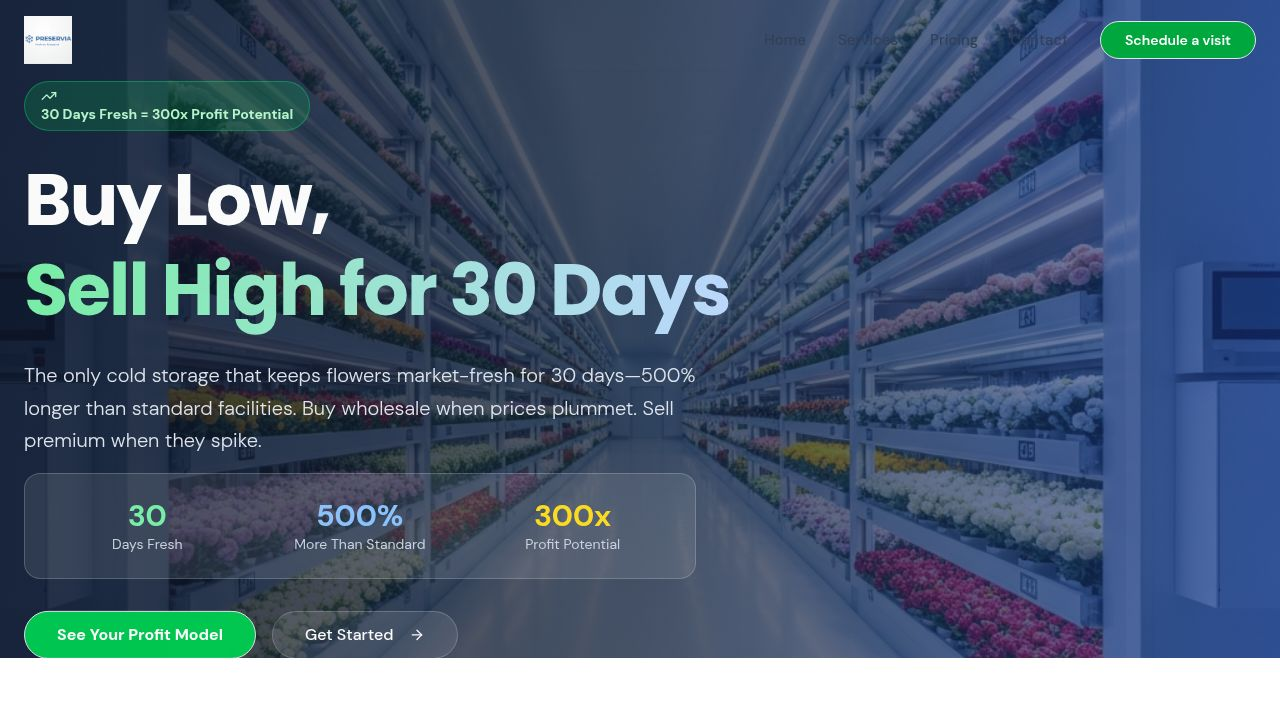
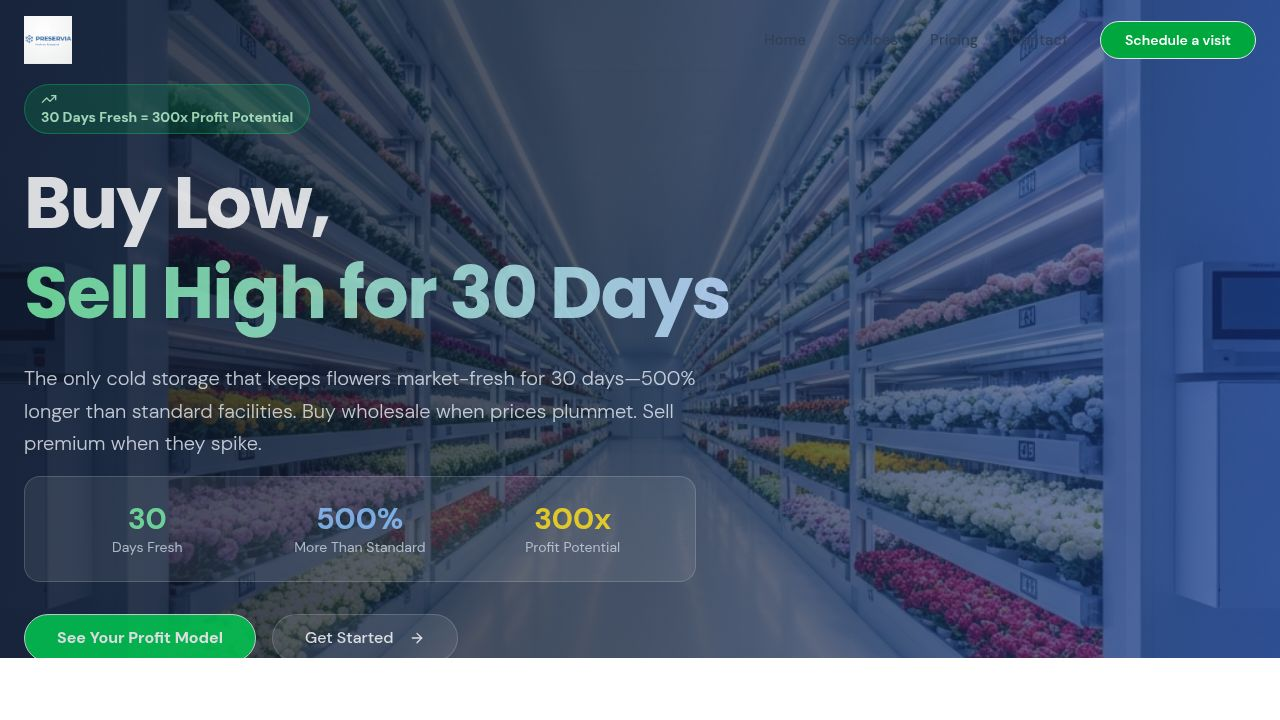
Set up the backend server and database integration
Update import path for schema definition in storage.ts.

Replit-Commit-Author: Agent
Replit-Commit-Session-Id: b222afdf-626b-4cca-8c77-0fde10143c44
Replit-Commit-Checkpoint-Type: full_checkpoint
Replit-Commit-Event-Id: 0e89827c-c608-4367-bdfe-9a6859980af1
Replit-Commit-Screenshot-Url: https://storage.googleapis.com/screenshot-production-us-central1/3c430391-c561-4173-a0d9-4890a7ea9c4e/b222afdf-626b-4cca-8c77-0fde10143c44/vJMEOdP
Replit-Helium-Checkpoint-Created: true

diff --git a/server/storage.ts b/server/storage.ts
@@ -1,4 +1,4 @@
-import { leads, type Lead, type InsertLead } from "@shared/schema";
+import { leads, type Lead, type InsertLead } from "../shared/schema";
 import { db } from "./db";
 
 export interface IStorage {
